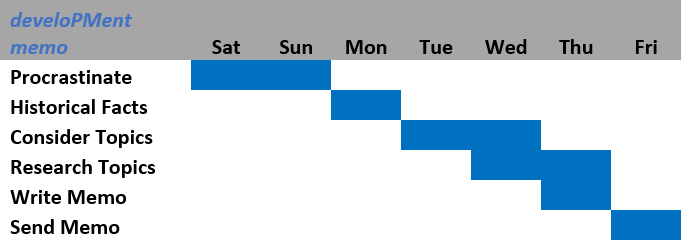
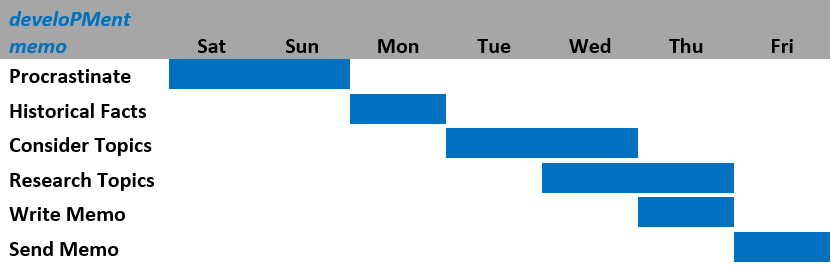
adding memo

diff --git a/assets/js/dm49.js b/assets/js/dm49.js
@@ -1,0 +1,22 @@
+//Plain JS use to contain content for develoPMent memo website
+//AJAX with files or JSON would likely be better,
+//but that won't work within github's gh-pages
+
+var memoString = "";
+
+memoString += "<p><span id=\"preamble\">Sometimes I know a thing by the sight of it – what it is, how it works, what it means... I just don’t always know the name of it.</span></p><br />";
+
+memoString += "<p><i>A </i><span id=\"vocab\">Gantt Chart</span><i> is a bar chart of schedule information where activities are listed on the vertical axis, dates are shown on the horizontal axis, and activity durations are shown as horizontal bars placed according to start and finish dates.</i></p>";
+
+memoString += "<p>Gantt charts are easy to read and commonly used as a visual representation of a project schedule. Because of this level of clarity, you’ll commonly find Gantt charts in management presentations. Developed by <a href=\"./assets/img/memoImages/dm49_gantt.jpg\" target=\"_blank\">Henry Gantt as a production control tool</a>, a Gantt chart shows the start and finish dates of the different required elements within a project.</p>";
+
+memoString += "<p style=\"text-align:center\"><img src=\"./assets/img/memoImages/dm49_chart.png\" width=\"500\"><br /></p>";
+
+memoString += "<p>Depending on the depth of software (or effort employed) and the message you wish to communicate, Gantt charts might also show additional depth of a project’s schedule details including activity sequencing, activity completion status, resource assignment/availability, dependencies, critical path, and so on.</p>";
+
+memoString += "<p>I generally find Gantt charts most helpful in visualizing all the pieces of the puzzle to make better informed decisions about timetables and commitments.</p>";
+
+
+//Get element from front page where memo should be placed
+var subPage = document.getElementById('currentMemo');
+subPage.innerHTML = memoString;

diff --git a/assets/js/dm27.js b/assets/js/dm27.js
@@ -5,7 +5,7 @@
 var memoString = "";
 
 memoString += "<p><span id=\"preamble\">Previously, we introduced three theories of motivation which are expected as common knowledge among project managers.<br />";
-memoString += "Our big problem is that none of those chumps, those so-and-sos positing such theories as these understand that the <a href=\"http://developmentmemo.com/assets/img/memoImages/dm27_the_cake_is_a_lie.jpg\" target=\"_blank\">true secret to motivation is cake! People love cake. Mmm-mmm, cake</a>.</span></p><br />";
+memoString += "Our big problem is that none of those chumps, those so-and-sos positing such theories as these understand that the <a href=\"./assets/img/memoImages/dm27_the_cake_is_a_lie.jpg\" target=\"_blank\">true secret to motivation is cake! People love cake. Mmm-mmm, cake</a>.</span></p><br />";
 
 memoString += "<p>Now, we address three more theories of motivation commonly referenced in Project Management. However, note that this isn’t everything. You might notice we haven’t touched upon one of the oldest theories (Maslow) nor one of the newest (Pritchard and Ashwood)...</p>";
 

diff --git a/assets/js/aIndex.js b/assets/js/aIndex.js
@@ -354,4 +354,11 @@ var dmIndx = [
     keywords: "SERIAL POSITION EFFECT PRIMARY RECENCY MEMORY FORGET",
     path: "./assets/js/dm48.js",
   },
+  {
+    num: 49,
+    title: "Gantt Chart",
+    category: memoGroup.TIME,
+    keywords: "HENRY GANTT CHART ME BAR SCHEDULE INFORMATION ACTIVITIES",
+    path: "./assets/js/dm49.js",
+  },
 ];

diff --git a/assets/js/dmTEMPLATE.js b/assets/js/dmTEMPLATE.js
@@ -6,7 +6,7 @@ var memoString = "";
 
 memoString += "<p><span id=\"preamble\">HeaderHere</span></p><br />";
 
-memoString += "<p><span id=\"vocab\">Term</span><i> .</i></p>";
+memoString += "<p><i></i><span id=\"vocab\">Term</span><i> .</i></p>";
 
 memoString += "<p>Details.</p>";
 

diff --git a/memoTester.html b/memoTester.html
@@ -70,6 +70,6 @@
 
 	<!-- ADJUST THIS JS FOR TESTING -->
 	<!-- <script src="./assets/js/dm17.js"></script> -->
-	<script src="./assets/js/dm48.js"></script>
+	<script src="./assets/js/dm49.js"></script>
 
 </html>
